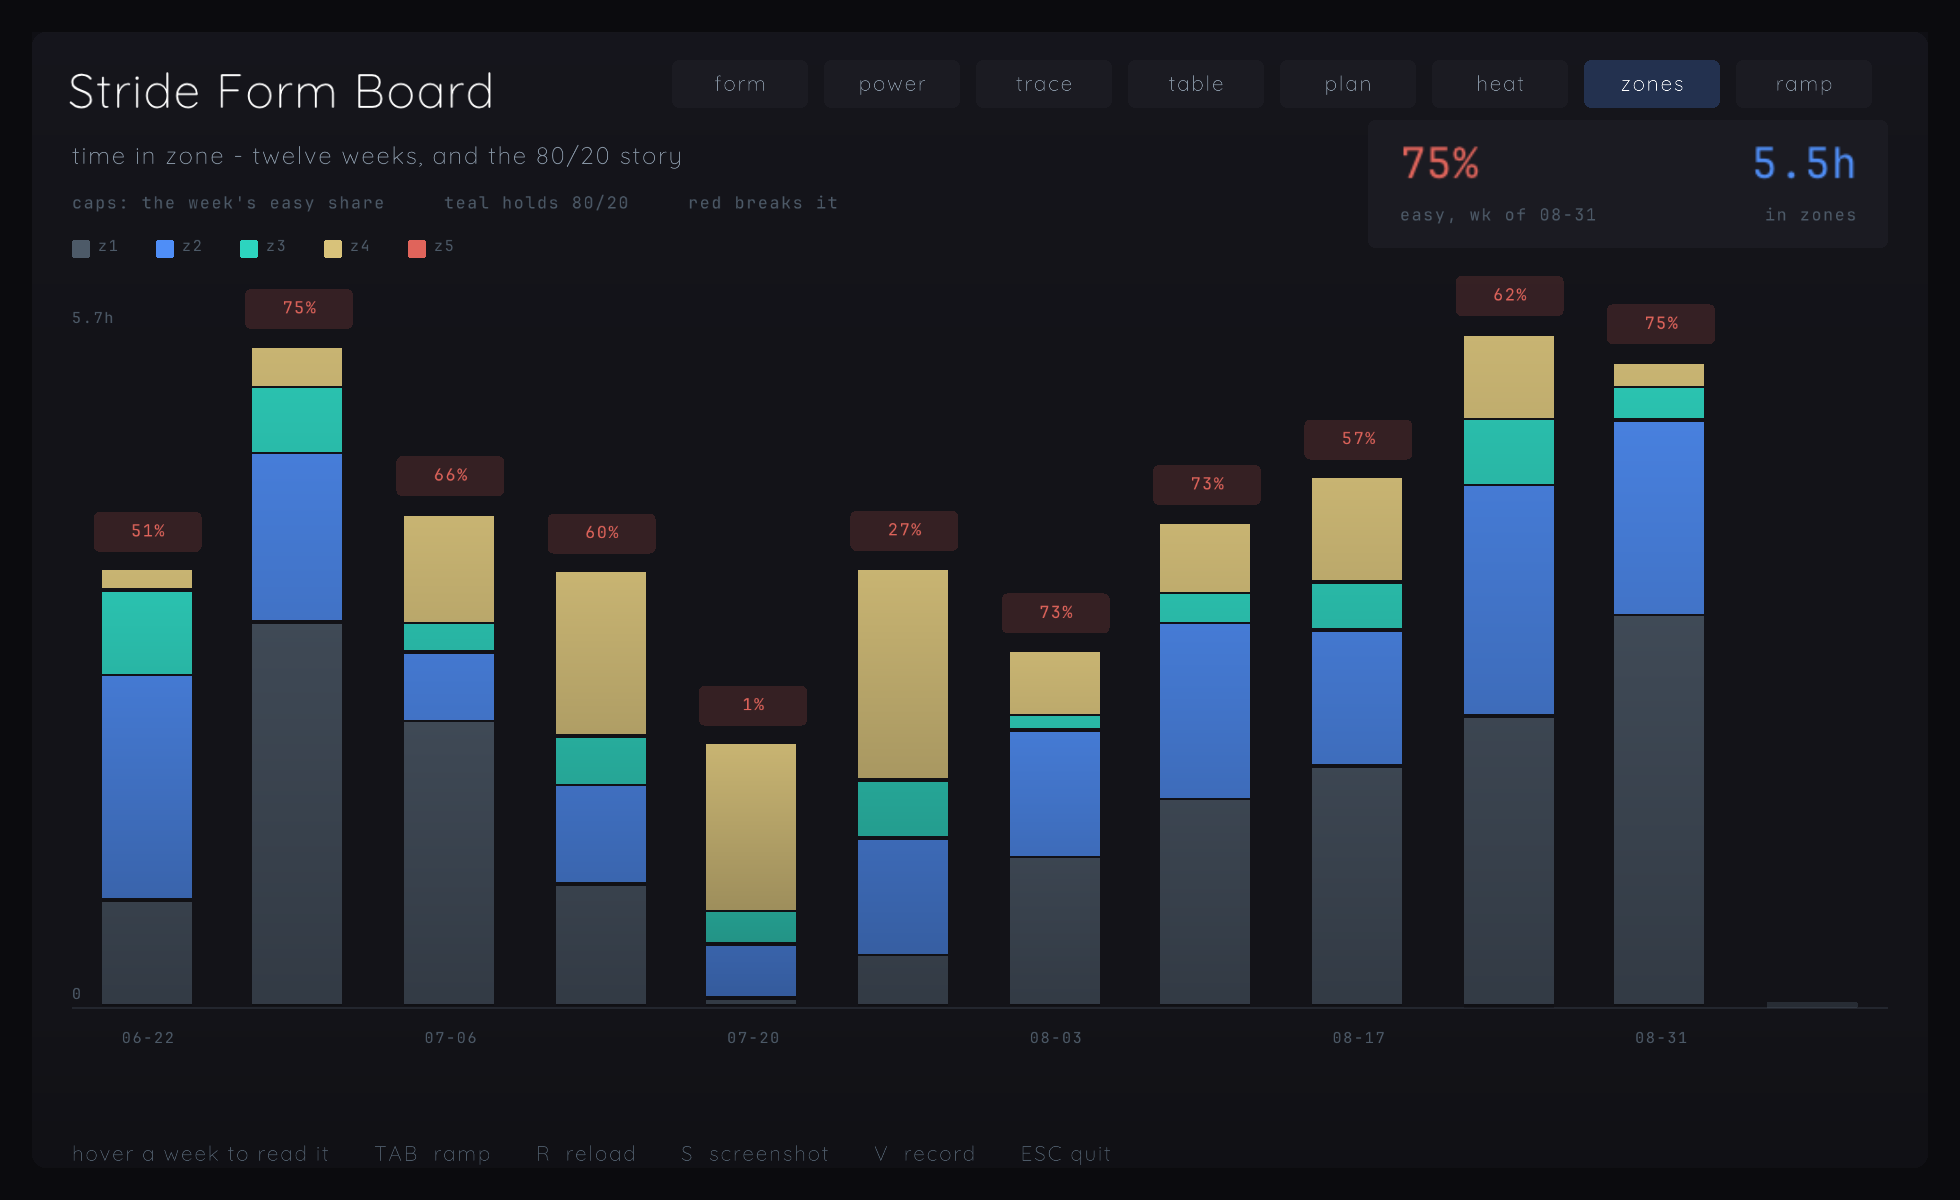
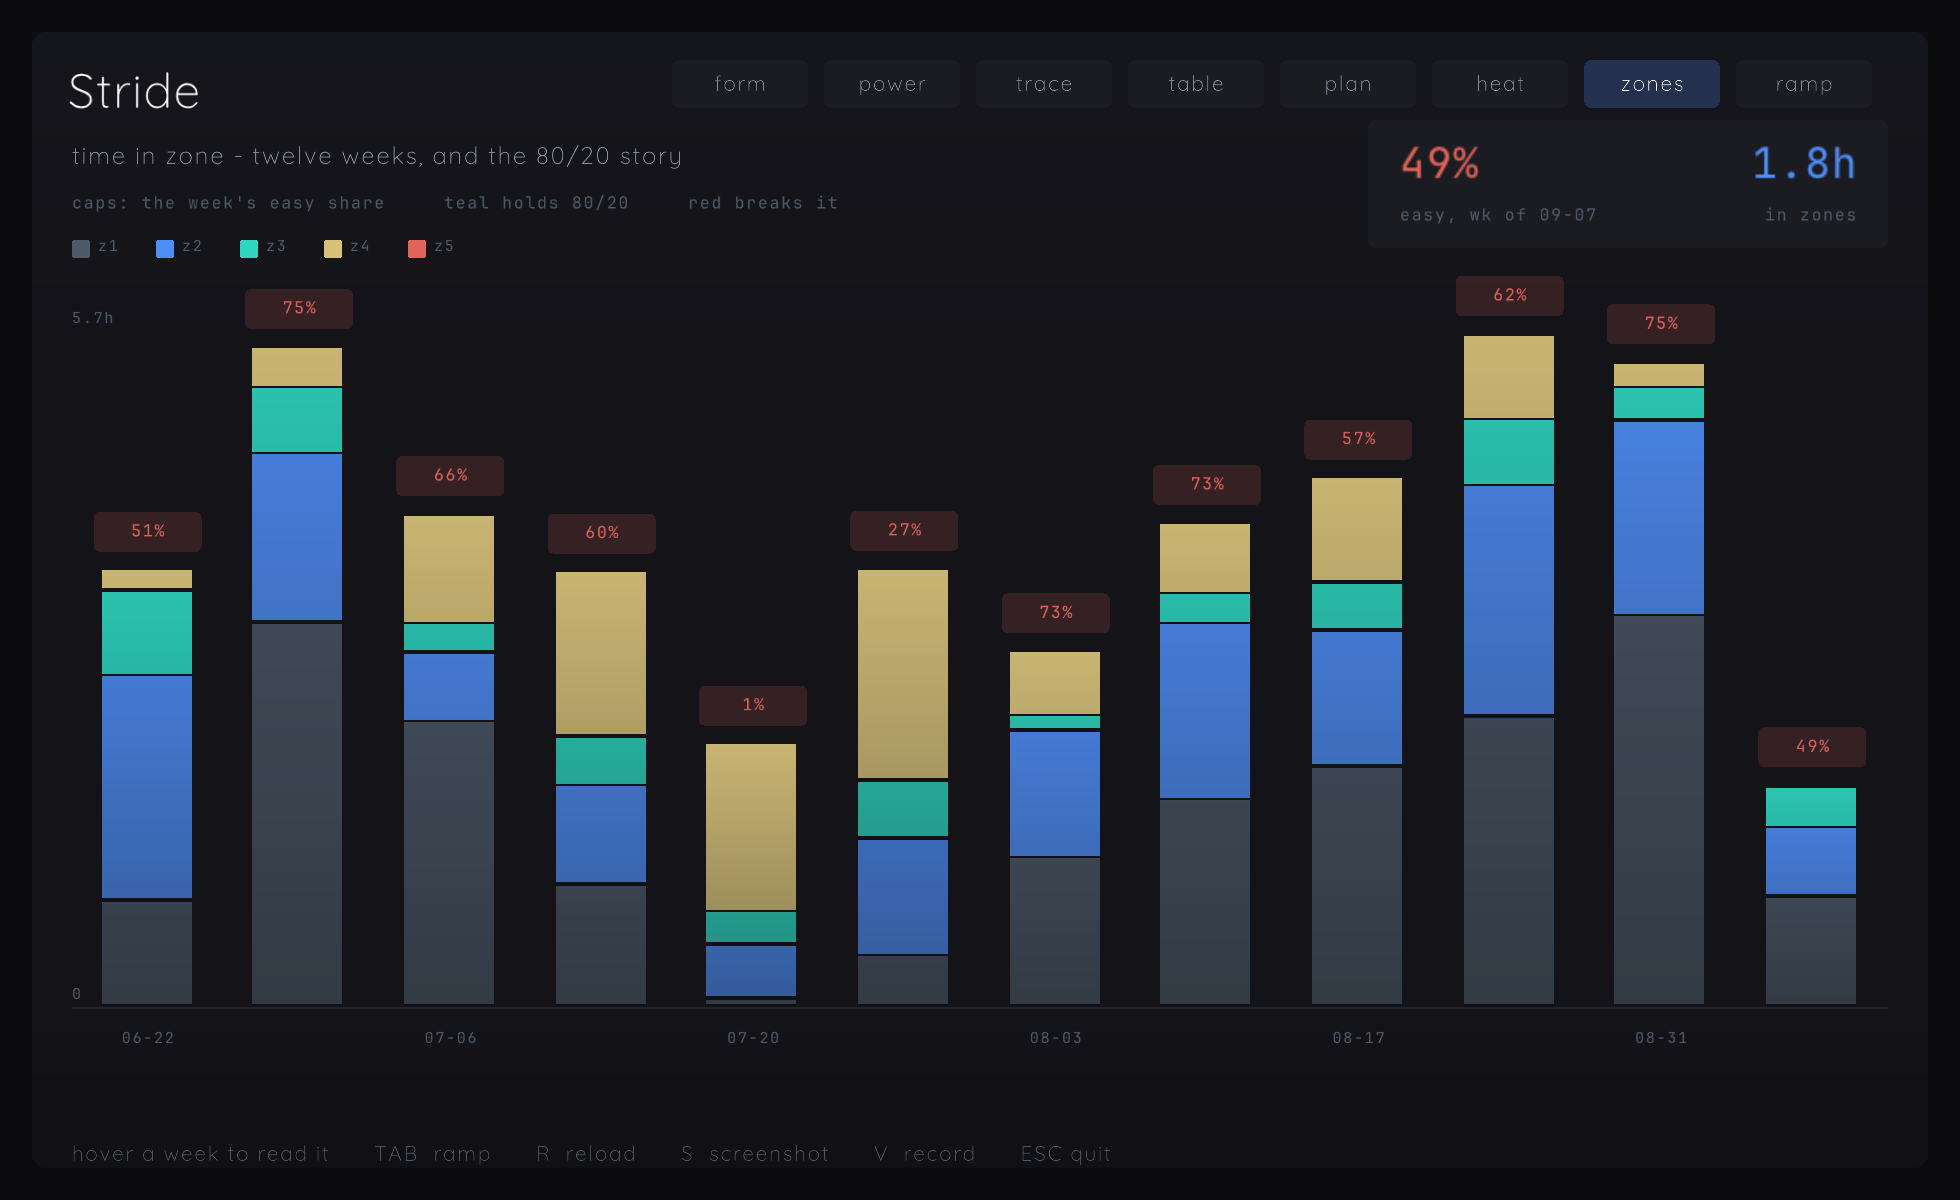
docs: architecture diagram gains the window and the bus; screenshots regrouped and regenerated
The mermaid diagram was engine-only: the desktop window now appears as
the second actor, reading the database through the shared SQL views,
with the agent bus (viz_directives, viz_focus, capabilities) as a
fourth element inside the SQLite subgraph - coach steers in, the
window reports focus, terminal statuses and capabilities back. The
five view screenshots regroup into one gallery table after the prose
(the power view gains its screenshot - shot but never shown), and all
five are regenerated from the current binary: the old captures still
wore the retired Stride Form Board wordmark.

Claude-Session: https://claude.ai/code/session_01BUpTs8YbYe6JnTh5z4ycU3

diff --git a/README.md b/README.md
@@ -76,27 +76,36 @@ run `./stride-app/stride-app`), `stride-app-windows-x86_64.zip` (unzip and run
 **Form board** — fitness, fatigue and form over 90 days, with each day's load underneath.
 Hover any day, or walk them with the arrow keys.
 
-![The form board](docs/img/form-board.png)
-
 **Zones** — twelve weeks of time in zone, each week capped with its easy share: teal
 holds the 80/20 line, alarm red breaks it.
 
-![The zones view](docs/img/zones.png)
-
 **Ramp** — weekly load with the CTL each week gained riding above it as a chip. Colour is
 the verdict: teal builds, red past +6/wk, grey holds or sheds.
-
-![The ramp view](docs/img/ramp.png)
 
 **Session trace** — one ride's power with the interval detector's work blocks shaded
 behind it, so "did it place the boundaries right" is a question you can answer by eye.
 `shift+[` overlays a second session as a ghost on the same scale; the wheel zooms.
 
-![The session trace](docs/img/session-trace.png)
+**Power** — the window's power-duration curve against the all-time record book, with a
+per-rung gap readout and a CP fit in the corner.
 
-The rest: **power** (the window's curve against the all-time record book), **table**
-(every day with a detail panel), **plan** (today's session and the week's ladder),
-**heat** (a year of load, one cell per day). `TAB` cycles them, or click a pill.
+The rest: **table** (every day with a detail panel), **plan** (today's session and the
+week's ladder), **heat** (a year of load, one cell per day). `TAB` cycles them, or
+click a pill.
+
+<table>
+  <tr>
+    <td colspan="2"><img src="docs/img/form-board.png" alt="The form board" /></td>
+  </tr>
+  <tr>
+    <td><img src="docs/img/zones.png" alt="The zones view" /></td>
+    <td><img src="docs/img/ramp.png" alt="The ramp view" /></td>
+  </tr>
+  <tr>
+    <td><img src="docs/img/session-trace.png" alt="The session trace" /></td>
+    <td><img src="docs/img/power-curve.png" alt="The power view" /></td>
+  </tr>
+</table>
 
 A coach can drive the window over the same database — `viz_directives` in, `viz_focus`
 out, no sockets — and every directive reaches a terminal status it can read back,
@@ -433,11 +442,13 @@ flowchart TD
         mirror["mirror tier<br>activities, streams<br>re-pullable"]
         computed["computed tier<br>activity_metrics, daily_load, activity_segments<br>rebuilt by analyze"]
         judgment["judgment tier<br>planned_sessions, ratings, config<br>exists only here"]
+        bus["agent bus<br>viz_directives, viz_focus, capabilities"]
     end
 
     analyze["analyze — pure Roc math"]
     queries["queries — JSON or tables"]
     coach(["LLM coach"])
+    window(["desktop window — roc-ray"])
 
     strava -->|"oauth token exchange"| auth
     auth -.->|"writes tokens to config"| judgment
@@ -446,13 +457,17 @@ flowchart TD
     mirror --> analyze --> computed
     judgment ~~~ queries
     db --> queries
-    queries -->|"summary, week, progress"| coach
+    db -->|"shared SQL views, one definition each"| window
+    queries -->|"summary, week, progress, viz"| coach
     coach -->|"week add, complete, skip, rate"| judgment
+    coach -->|"steer, viz_directives"| bus
+    bus --> window
+    window -.->|"focus, statuses, capabilities"| bus
 
     classDef tier fill:#f6f8fa,stroke:#57606a,color:#24292f
     classDef actor fill:#ddf4ff,stroke:#0969da,color:#0a3069
-    class mirror,computed,judgment tier
-    class coach actor
+    class mirror,computed,judgment,bus tier
+    class coach,window actor
 ```
 
 The three tiers exist because they have three different recovery stories. Mirror is
